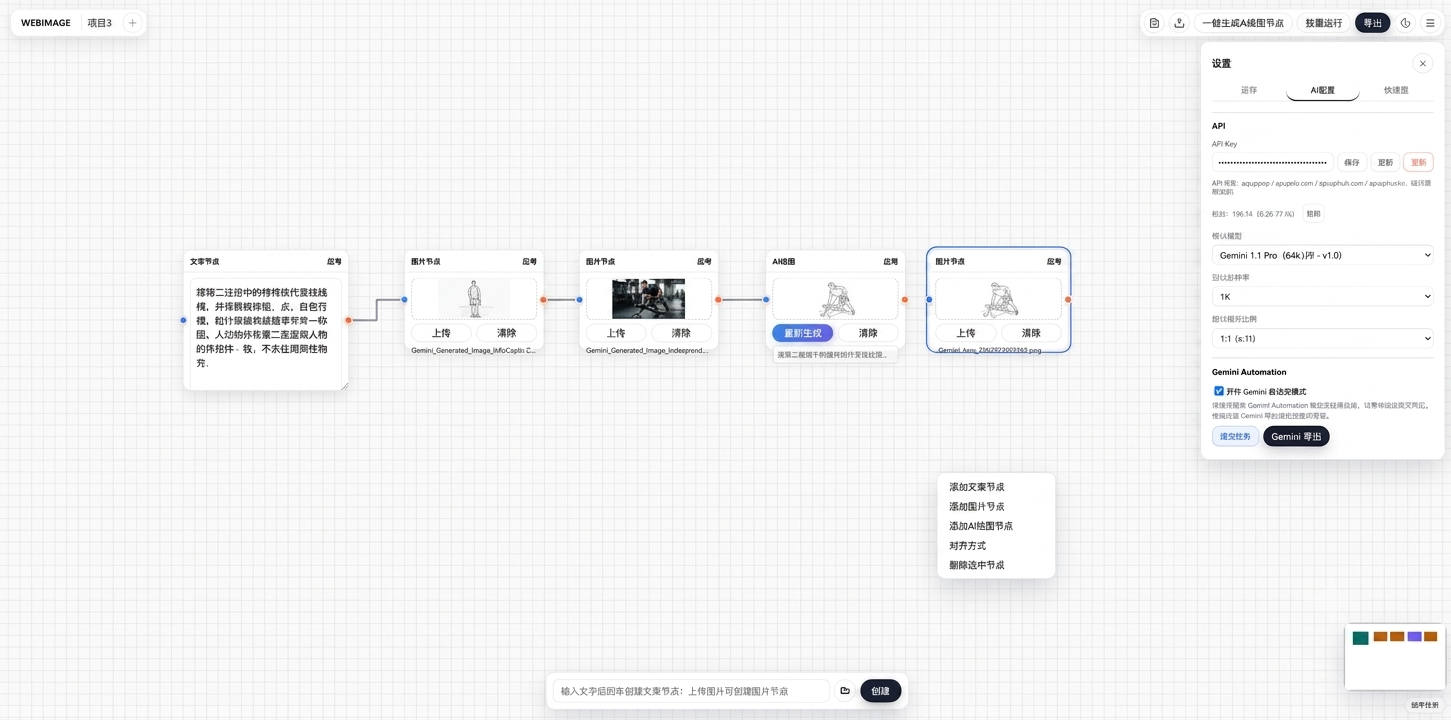
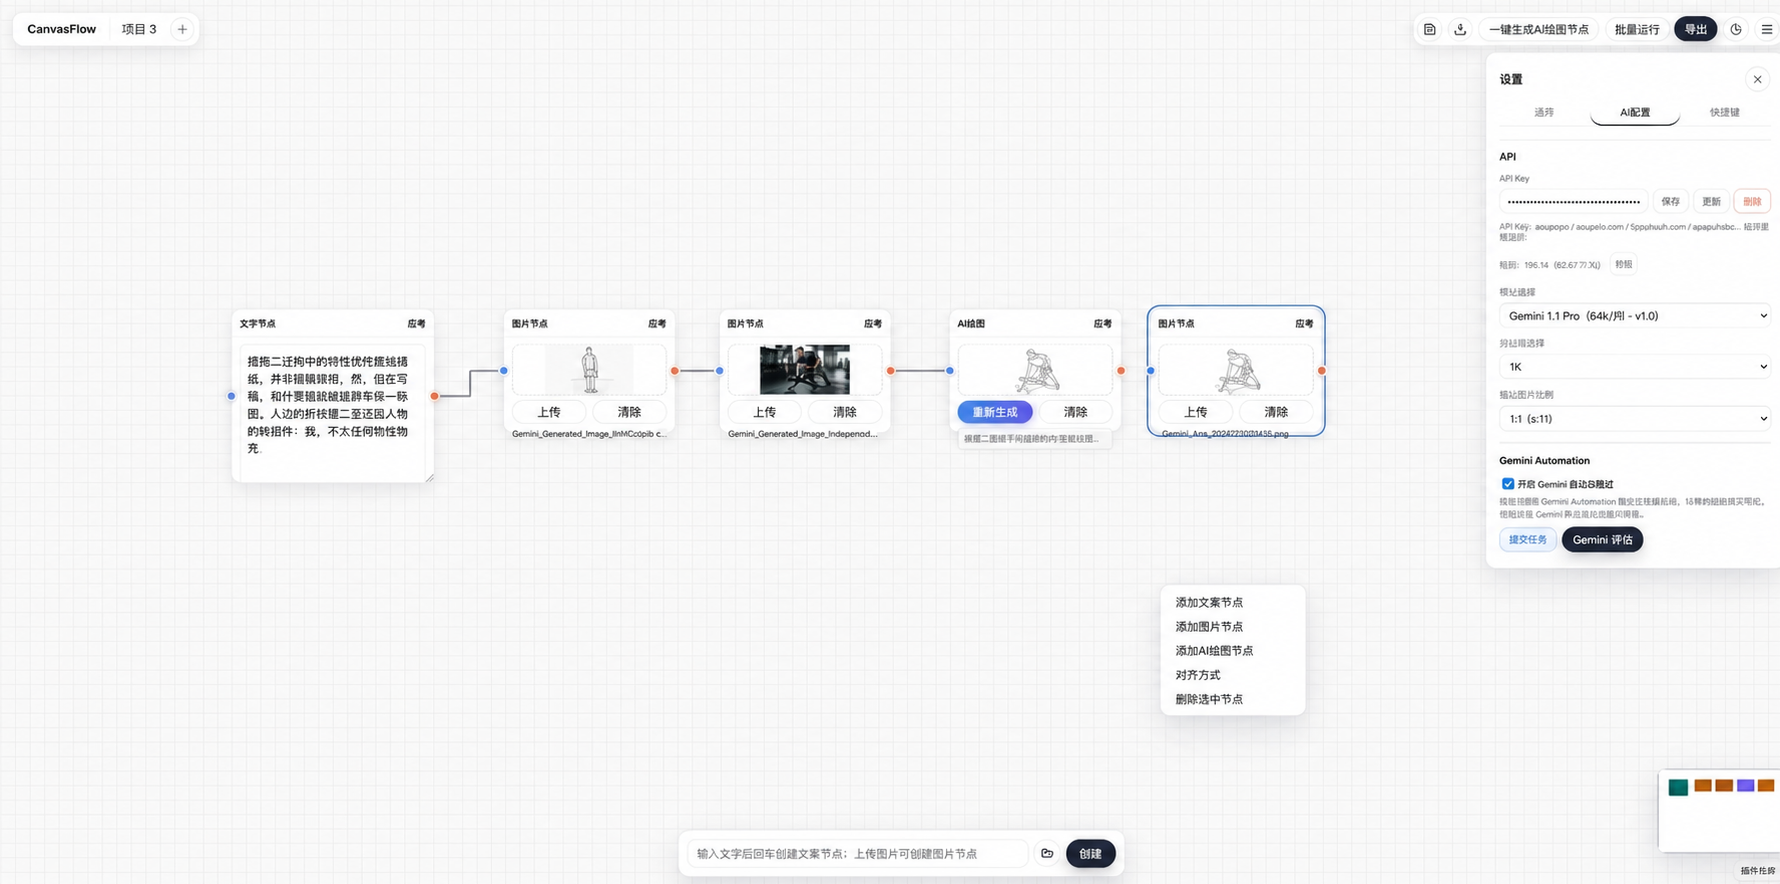
chore: rename project to CanvasFlow

diff --git a/index.html b/index.html
@@ -3,14 +3,14 @@
 <head>
   <meta charset="utf-8">
   <meta name="viewport" content="width=device-width, initial-scale=1">
-  <title>节点式图片文字画布</title>
+  <title>CanvasFlow — Visual AI Image Workflow</title>
   <link rel="stylesheet" href="styles.css">
 </head>
 <body>
   <div id="app" class="app theme-light">
     <header class="topbar">
       <div class="project-shell">
-        <div class="brand">WEBIMAGE</div>
+        <div class="brand">CanvasFlow</div>
         <button id="projectNameBtn" class="project-name-btn" title="单击切换项目，双击重命名">未命名项目</button>
         <div id="projectMenu" class="project-menu hidden"></div>
         <button id="newCanvasBtn" class="icon-btn subtle" title="新建项目">＋</button>

diff --git a/app.js b/app.js
@@ -9,7 +9,7 @@ const LANGUAGE_KEY = "webimage.language";
 // UI language is stored separately from project data so switching projects never
 // changes the application language. New UI nodes are translated automatically.
 const UI_EN = {
-  "节点式图片文字画布": "Node-based Image & Text Canvas",
+  "CanvasFlow — Visual AI Image Workflow": "CanvasFlow — Visual AI Image Workflow",
   "单击切换项目，双击重命名": "Click to switch projects; double-click to rename",
   "未命名项目": "Untitled Project", "未命名": "Untitled", "项目1": "Project 1",
   "新建项目": "New Project", "保存JSON": "Save JSON", "加载JSON": "Load JSON",

diff --git a/server.js b/server.js
@@ -425,7 +425,7 @@ server.on("error", (err) => {
 
 server.listen(port, "127.0.0.1", () => {
   console.log("=".repeat(44));
-  console.log("  WEBIMAGE 服务器已启动");
+  console.log("  CanvasFlow 服务器已启动");
   console.log(`  访问地址: http://127.0.0.1:${port}/`);
   console.log("  关闭本窗口即可停止服务器");
   console.log("=".repeat(44));

diff --git a/README.md b/README.md
@@ -1,10 +1,12 @@
-# WEBIMAGE Node-based Image & Text Canvas
+# CanvasFlow
+
+> Visual AI Image Workflow
 
 **English** | [简体中文](README_CN.md)
 
 A visual node-based canvas for combining text and images through drag-and-drop connections, generating images with AI, and exporting results in batches.
 
-![WEBIMAGE interface screenshot](screenshot.png)
+![CanvasFlow interface screenshot](screenshot.png)
 
 ---
 
@@ -34,7 +36,7 @@ A visual node-based canvas for combining text and images through drag-and-drop c
 
 ### 1. Start the Server
 
-Double-click `webimage-server.exe`. The application starts the local server and opens your browser automatically.
+Double-click `CanvasFlow-Windows-x64.exe`. The application starts the local server and opens your browser automatically.
 
 > Node.js and other dependencies are not required.
 
@@ -98,7 +100,7 @@ The application follows your system language on first launch and remembers your 
 
 ## Custom Image Nodes
 
-In addition to basic image nodes, WEBIMAGE includes a custom asset system for quickly reusing frequently needed images.
+In addition to basic image nodes, CanvasFlow includes a custom asset system for quickly reusing frequently needed images.
 
 ### Five Ways to Create Image Nodes
 
@@ -185,7 +187,7 @@ Browser app.js ──fetch──▶ localhost:5173 /api/* ──proxy──▶ a
 ├── index.html          # Page structure
 ├── styles.css          # Styles
 ├── server.js           # Node.js HTTP server
-├── webimage-server.exe # Standalone executable compiled with pkg (Node.js not required)
+├── CanvasFlow-Windows-x64.exe # Standalone executable compiled with pkg (Node.js not required)
 ├── package.json        # pkg build configuration
 ├── start.bat           # Development startup script
 └── download/images/    # Local image assets, including model images
@@ -197,10 +199,10 @@ Browser app.js ──fetch──▶ localhost:5173 /api/* ──proxy──▶ a
 
 ```bash
 npm install -g pkg
-pkg server.js --targets node18-win-x64 --output webimage-server.exe
+pkg server.js --targets node18-win-x64 --output CanvasFlow-Windows-x64.exe
 ```
 
-After compilation, `webimage-server.exe` runs independently and can be distributed without Node.js or other dependencies.
+After compilation, `CanvasFlow-Windows-x64.exe` runs independently and can be distributed without Node.js or other dependencies.
 
 ---
 

diff --git a/README_CN.md b/README_CN.md
@@ -1,10 +1,12 @@
-# WEBIMAGE 节点式图片文字画布
+# CanvasFlow
+
+> Visual AI Image Workflow
 
 [English](README.md) | **简体中文**
 
 一个可视化的节点式画布工具，通过拖拽、连线的方式组合文字和图片，一键调用 AI 生成图片，支持批量导出。
 
-![WEBIMAGE 界面截图](screenshot.png)
+![CanvasFlow 界面截图](screenshot.png)
 
 ---
 
@@ -34,7 +36,7 @@
 
 ### 1. 启动服务
 
-直接双击 `webimage-server.exe`，程序会自动启动并打开浏览器。
+直接双击 `CanvasFlow-Windows-x64.exe`，程序会自动启动并打开浏览器。
 
 > 无需安装 Node.js，无需安装任何依赖。
 
@@ -184,7 +186,7 @@
 ├── index.html          # 页面骨架
 ├── styles.css          # 样式
 ├── server.js           # Node.js HTTP 服务器
-├── webimage-server.exe # pkg 编译的独立可执行文件（免装 Node.js）
+├── CanvasFlow-Windows-x64.exe # pkg 编译的独立可执行文件（免装 Node.js）
 ├── package.json        # pkg 打包配置
 ├── start.bat           # 开发启动脚本
 └── download/images/    # 本地图片资源（模特图等）
@@ -196,10 +198,10 @@
 
 ```bash
 npm install -g pkg
-pkg server.js --targets node18-win-x64 --output webimage-server.exe
+pkg server.js --targets node18-win-x64 --output CanvasFlow-Windows-x64.exe
 ```
 
-编译后 `webimage-server.exe` 可独立运行，发给他人无需 Node.js 或其他依赖。
+编译后 `CanvasFlow-Windows-x64.exe` 可独立运行，发给他人无需 Node.js 或其他依赖。
 
 ---
 
